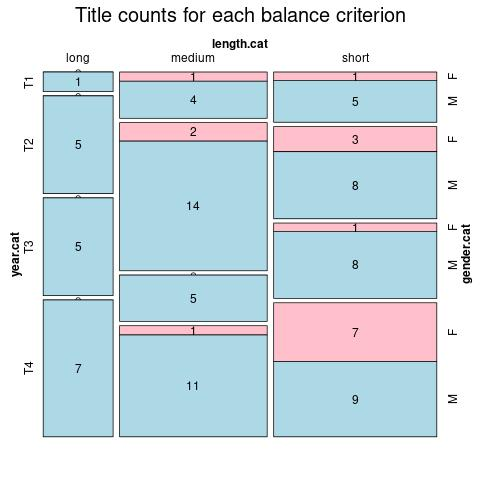
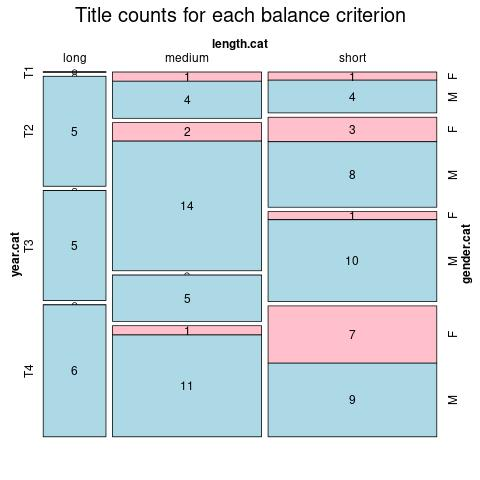
refreshing again

diff --git a/ELTeC/por/index.html b/ELTeC/por/index.html
@@ -5,7 +5,7 @@
       <title>Contents of ELTeC-por</title>
    </head>
    <body>
-      <h4>On 2020-05-01 por has 98 texts containing 6565452 words</h4>
+      <h4>On 2020-05-02 por has 97 texts containing 6332419 words</h4>
       <p class="graphic"><img src="mosaic.png"><input type="button" value="Explainer" onclick="window.open('../explainer.html','popUpWindow',         'height=600,width=500,left=100,top=100,resizable=yes,         scrollbars=yes,toolbar=no,menubar=no,location=no,directories=no, status=yes');"></p>
       <p class="explain">Click on a column heading to sort. Click on a text identifier to
          read the text (may not work in older browsers).</p>
@@ -26,10 +26,10 @@
             <td><a href="POR0001.html">POR0001</a></td>
             <td>eltec-1</td>
             <td></td>
-            <td>150580</td>
+            <td>145767</td>
             <td>(long) </td>
             <td>1868 (T2) </td>
-            <td>As Morgadinha dos Canaviais </td>
+            <td>A Morgadinha dos Cannaviaes </td>
             <td>Dinis, Júlio (1839-1871)</td>
             <td>M</td>
             <td></td>
@@ -47,22 +47,10 @@
             <td></td>
          </tr>
          <tr>
-            <td><a href="POR0003.html">POR0003</a></td>
-            <td>eltec-1</td>
-            <td></td>
-            <td>130495</td>
-            <td>(long) </td>
-            <td>1848 (T1) </td>
-            <td> O Monge de Cister</td>
-            <td>Herculano, Alexandre (1810-1877)</td>
-            <td>M</td>
-            <td></td>
-         </tr>
-         <tr>
             <td><a href="POR0004.html">POR0004</a></td>
             <td>eltec-1</td>
             <td></td>
-            <td>70856</td>
+            <td>71843</td>
             <td>(medium) </td>
             <td>1846 (T1) </td>
             <td>Viagens na minha terra</td>
@@ -74,7 +62,7 @@
             <td><a href="POR0005.html">POR0005</a></td>
             <td>eltec-1</td>
             <td></td>
-            <td>218665</td>
+            <td>216330</td>
             <td>(long) </td>
             <td>1888 (T3) </td>
             <td>Os Maias</td>
@@ -98,10 +86,10 @@
             <td><a href="POR0007.html">POR0007</a></td>
             <td>eltec-1</td>
             <td></td>
-            <td>124359</td>
+            <td>124362</td>
             <td>(long) </td>
             <td>1868 (T2) </td>
-            <td>Uma Família Inglesa</td>
+            <td>Uma família ingleza</td>
             <td>Dinis, Júlio (1839-1871)</td>
             <td>M</td>
             <td></td>
@@ -110,10 +98,10 @@
             <td><a href="POR0008.html">POR0008</a></td>
             <td>eltec-1</td>
             <td></td>
-            <td>218665</td>
+            <td>122198</td>
             <td>(long) </td>
-            <td>1901 (T4) </td>
-            <td>A Cidade e as Serras</td>
+            <td>1878 (T2) </td>
+            <td>O Primo Basílio </td>
             <td>Eça de Queirós, José Maria de (1845 — 1900)</td>
             <td>M</td>
             <td></td>
@@ -122,7 +110,7 @@
             <td><a href="POR0009.html">POR0009</a></td>
             <td>eltec-1</td>
             <td></td>
-            <td>142688</td>
+            <td>142413</td>
             <td>(long) </td>
             <td>1875 (T3) </td>
             <td>O Crime do Padre Amaro</td>
@@ -134,7 +122,7 @@
             <td><a href="POR0010.html">POR0010</a></td>
             <td>eltec-1</td>
             <td></td>
-            <td>51524</td>
+            <td>50213</td>
             <td>(medium) </td>
             <td>1862 (T2) </td>
             <td>Amor de Perdição</td>
@@ -146,10 +134,10 @@
             <td><a href="POR0011.html">POR0011</a></td>
             <td>eltec-1</td>
             <td></td>
-            <td>51492</td>
-            <td>(medium) </td>
-            <td>1868 (T2) </td>
-            <td>O retrato de Ricardina</td>
+            <td>41465</td>
+            <td>(short) </td>
+            <td>1858 (T1) </td>
+            <td>O que fazem mulheres</td>
             <td>Castelo Branco, Camilo (1825 — 1890)</td>
             <td>M</td>
             <td></td>
@@ -158,19 +146,19 @@
             <td><a href="POR0012.html">POR0012</a></td>
             <td>eltec-1</td>
             <td></td>
-            <td>117069</td>
-            <td>(long) </td>
-            <td>1876 (T2) </td>
-            <td>A Caveira da Mártir</td>
+            <td>59934</td>
+            <td>(medium) </td>
+            <td>1872 (T2) </td>
+            <td>Livro de consolação</td>
             <td>Castelo Branco, Camilo (1825 — 1890)</td>
             <td>M</td>
-            <td>high</td>
+            <td></td>
          </tr>
          <tr>
             <td><a href="POR0013.html">POR0013</a></td>
             <td>eltec-1</td>
             <td></td>
-            <td>45630</td>
+            <td>40352</td>
             <td>(short) </td>
             <td>1906 (T4) </td>
             <td>Os pobres</td>
@@ -194,7 +182,7 @@
             <td><a href="POR0015.html">POR0015</a></td>
             <td>eltec-1</td>
             <td></td>
-            <td>124359</td>
+            <td>146137</td>
             <td>(long) </td>
             <td>1867 (T2) </td>
             <td>Os Fidalgos da Casa Mourisca</td>
@@ -242,7 +230,7 @@
             <td><a href="POR0019.html">POR0019</a></td>
             <td>eltec-1</td>
             <td></td>
-            <td>26954</td>
+            <td>26391</td>
             <td>(short) </td>
             <td>1914 (T4) </td>
             <td>A Confissão de Lúcio</td>
@@ -290,10 +278,10 @@
             <td><a href="POR0023.html">POR0023</a></td>
             <td>eltec-1</td>
             <td></td>
-            <td>58439</td>
+            <td>58257</td>
             <td>(medium) </td>
             <td>1844 (T1) </td>
-            <td> Eurico, o Presbítero</td>
+            <td> Eurico, o Presbytero</td>
             <td>Herculano, Alexandre (1810-1877)</td>
             <td>M</td>
             <td></td>
@@ -470,10 +458,10 @@
             <td><a href="POR0038.html">POR0038</a></td>
             <td>eltec-1</td>
             <td></td>
-            <td>12144</td>
-            <td>(short) </td>
-            <td>1846 (T1) </td>
-            <td>O Galego</td>
+            <td>60723</td>
+            <td>(medium) </td>
+            <td>1843 (T1) </td>
+            <td> O Bobo </td>
             <td>Herculano, Alexandre (1810-1877)</td>
             <td>M</td>
             <td></td>
@@ -517,8 +505,8 @@
          <tr>
             <td><a href="POR0042.html">POR0042</a></td>
             <td>eltec-1</td>
-            <td>159</td>
-            <td>61600</td>
+            <td></td>
+            <td>61549</td>
             <td>(medium) </td>
             <td>1904 (T4) </td>
             <td>Viriato</td>
@@ -626,9 +614,9 @@
             <td><a href="POR0051.html">POR0051</a></td>
             <td>eltec-1</td>
             <td></td>
-            <td>65614</td>
+            <td>65400</td>
             <td>(medium) </td>
-            <td>1919 (T4) </td>
+            <td>1917 (T4) </td>
             <td>Húmus</td>
             <td>Brandão, Raul (1867 - 1930)</td>
             <td>M</td>
@@ -638,7 +626,7 @@
             <td><a href="POR0052.html">POR0052</a></td>
             <td>eltec-1</td>
             <td></td>
-            <td>45765</td>
+            <td>43817</td>
             <td>(short) </td>
             <td>1903 (T4) </td>
             <td>A Farsa</td>
@@ -722,11 +710,11 @@
             <td><a href="POR0059.html">POR0059</a></td>
             <td>eltec-1</td>
             <td></td>
-            <td>65871</td>
-            <td>(medium) </td>
-            <td>1845-1850 (T1) </td>
-            <td>O Arco de Santana </td>
-            <td>Almeida Garrett, João Baptista da Silva Leitão de (1799 - 1854)</td>
+            <td>49815</td>
+            <td>(short) </td>
+            <td>1875 (T3) </td>
+            <td>Um duelo nas sombras</td>
+            <td>Barata, António Francisco (1836-1910)</td>
             <td>M</td>
             <td></td>
          </tr>
@@ -782,11 +770,11 @@
             <td><a href="POR0064.html">POR0064</a></td>
             <td>eltec-1</td>
             <td></td>
-            <td>24390</td>
+            <td>47160</td>
             <td>(short) </td>
-            <td>1854 (T1) </td>
-            <td>Helena</td>
-            <td>Almeida Garrett, João Baptista da Silva Leitão de (1799 — 1854)</td>
+            <td>1873 (T3) </td>
+            <td>O Manuelinho de Évora</td>
+            <td>Barata, António Francisco (1836-1910)</td>
             <td>M</td>
             <td></td>
          </tr>

diff --git a/ELTeC/por/POR0064.html b/ELTeC/por/POR0064.html
@@ -2,12 +2,12 @@
  <html><head>
  <meta http-equiv="Content-Type" content="text/html; charset=UTF-8">     
   <link rel="stylesheet" href="../../css/cetei.css" media="all" title="no title" charset="utf-8"/>
-  <link type="application/tei+xml" rel="alternative" href="https://raw.githubusercontent.com/COST-ELTeC/ELTeC-por/master/level1/POR0064_AlmGar_Helena.xml"/>
+  <link type="application/tei+xml" rel="alternative" href="https://raw.githubusercontent.com/COST-ELTeC/ELTeC-por/master/level1/POR0064_AntFBar_Manuelinho.xml"/>
 <script src="../../js/CETEI.js" charset="utf-8"></script>
  <script type="text/javascript">
     var ceteicean = new CETEI();
     ceteicean.shadowCSS = "../../css/cetei.css";
-    ceteicean.getHTML5("https://raw.githubusercontent.com/COST-ELTeC/ELTeC-por/master/level1/POR0064_AlmGar_Helena.xml",function(data) {
+    ceteicean.getHTML5("https://raw.githubusercontent.com/COST-ELTeC/ELTeC-por/master/level1/POR0064_AntFBar_Manuelinho.xml",function(data) {
   document.getElementsByTagName("body")[0].appendChild(data);});
   </script>
    <title>ELTeC</title>

diff --git a/ELTeC/por/POR0011.html b/ELTeC/por/POR0011.html
@@ -2,12 +2,12 @@
  <html><head>
  <meta http-equiv="Content-Type" content="text/html; charset=UTF-8">     
   <link rel="stylesheet" href="../../css/cetei.css" media="all" title="no title" charset="utf-8"/>
-  <link type="application/tei+xml" rel="alternative" href="https://raw.githubusercontent.com/COST-ELTeC/ELTeC-por/master/level1/POR0011_CamCB_Ricardina.xml"/>
+  <link type="application/tei+xml" rel="alternative" href="https://raw.githubusercontent.com/COST-ELTeC/ELTeC-por/master/level1/POR0011_CamCB_Mulheres.xml"/>
 <script src="../../js/CETEI.js" charset="utf-8"></script>
  <script type="text/javascript">
     var ceteicean = new CETEI();
     ceteicean.shadowCSS = "../../css/cetei.css";
-    ceteicean.getHTML5("https://raw.githubusercontent.com/COST-ELTeC/ELTeC-por/master/level1/POR0011_CamCB_Ricardina.xml",function(data) {
+    ceteicean.getHTML5("https://raw.githubusercontent.com/COST-ELTeC/ELTeC-por/master/level1/POR0011_CamCB_Mulheres.xml",function(data) {
   document.getElementsByTagName("body")[0].appendChild(data);});
   </script>
    <title>ELTeC</title>

diff --git a/ELTeC/por/POR0012.html b/ELTeC/por/POR0012.html
@@ -2,12 +2,12 @@
  <html><head>
  <meta http-equiv="Content-Type" content="text/html; charset=UTF-8">     
   <link rel="stylesheet" href="../../css/cetei.css" media="all" title="no title" charset="utf-8"/>
-  <link type="application/tei+xml" rel="alternative" href="https://raw.githubusercontent.com/COST-ELTeC/ELTeC-por/master/level1/POR0012_CamCB_Caveira.xml"/>
+  <link type="application/tei+xml" rel="alternative" href="https://raw.githubusercontent.com/COST-ELTeC/ELTeC-por/master/level1/POR0012_CamCB_Consolacao.xml"/>
 <script src="../../js/CETEI.js" charset="utf-8"></script>
  <script type="text/javascript">
     var ceteicean = new CETEI();
     ceteicean.shadowCSS = "../../css/cetei.css";
-    ceteicean.getHTML5("https://raw.githubusercontent.com/COST-ELTeC/ELTeC-por/master/level1/POR0012_CamCB_Caveira.xml",function(data) {
+    ceteicean.getHTML5("https://raw.githubusercontent.com/COST-ELTeC/ELTeC-por/master/level1/POR0012_CamCB_Consolacao.xml",function(data) {
   document.getElementsByTagName("body")[0].appendChild(data);});
   </script>
    <title>ELTeC</title>

diff --git a/ELTeC/por/POR0008.html b/ELTeC/por/POR0008.html
@@ -2,12 +2,12 @@
  <html><head>
  <meta http-equiv="Content-Type" content="text/html; charset=UTF-8">     
   <link rel="stylesheet" href="../../css/cetei.css" media="all" title="no title" charset="utf-8"/>
-  <link type="application/tei+xml" rel="alternative" href="https://raw.githubusercontent.com/COST-ELTeC/ELTeC-por/master/level1/POR0008_EcaQue_Cidade.xml"/>
+  <link type="application/tei+xml" rel="alternative" href="https://raw.githubusercontent.com/COST-ELTeC/ELTeC-por/master/level1/POR0008_EcaQue_Basilio.xml"/>
 <script src="../../js/CETEI.js" charset="utf-8"></script>
  <script type="text/javascript">
     var ceteicean = new CETEI();
     ceteicean.shadowCSS = "../../css/cetei.css";
-    ceteicean.getHTML5("https://raw.githubusercontent.com/COST-ELTeC/ELTeC-por/master/level1/POR0008_EcaQue_Cidade.xml",function(data) {
+    ceteicean.getHTML5("https://raw.githubusercontent.com/COST-ELTeC/ELTeC-por/master/level1/POR0008_EcaQue_Basilio.xml",function(data) {
   document.getElementsByTagName("body")[0].appendChild(data);});
   </script>
    <title>ELTeC</title>

diff --git a/ELTeC/por/POR0059.html b/ELTeC/por/POR0059.html
@@ -2,12 +2,12 @@
  <html><head>
  <meta http-equiv="Content-Type" content="text/html; charset=UTF-8">     
   <link rel="stylesheet" href="../../css/cetei.css" media="all" title="no title" charset="utf-8"/>
-  <link type="application/tei+xml" rel="alternative" href="https://raw.githubusercontent.com/COST-ELTeC/ELTeC-por/master/level1/POR0059_AlmGar_Santana.xml"/>
+  <link type="application/tei+xml" rel="alternative" href="https://raw.githubusercontent.com/COST-ELTeC/ELTeC-por/master/level1/POR0059_AntFBar_Duelo.xml"/>
 <script src="../../js/CETEI.js" charset="utf-8"></script>
  <script type="text/javascript">
     var ceteicean = new CETEI();
     ceteicean.shadowCSS = "../../css/cetei.css";
-    ceteicean.getHTML5("https://raw.githubusercontent.com/COST-ELTeC/ELTeC-por/master/level1/POR0059_AlmGar_Santana.xml",function(data) {
+    ceteicean.getHTML5("https://raw.githubusercontent.com/COST-ELTeC/ELTeC-por/master/level1/POR0059_AntFBar_Duelo.xml",function(data) {
   document.getElementsByTagName("body")[0].appendChild(data);});
   </script>
    <title>ELTeC</title>

diff --git a/ELTeC/por/POR0038.html b/ELTeC/por/POR0038.html
@@ -2,12 +2,12 @@
  <html><head>
  <meta http-equiv="Content-Type" content="text/html; charset=UTF-8">     
   <link rel="stylesheet" href="../../css/cetei.css" media="all" title="no title" charset="utf-8"/>
-  <link type="application/tei+xml" rel="alternative" href="https://raw.githubusercontent.com/COST-ELTeC/ELTeC-por/master/level1/POR0038_AleHer_Galego.xml"/>
+  <link type="application/tei+xml" rel="alternative" href="https://raw.githubusercontent.com/COST-ELTeC/ELTeC-por/master/level1/POR0038_AleHer_Bobo.xml"/>
 <script src="../../js/CETEI.js" charset="utf-8"></script>
  <script type="text/javascript">
     var ceteicean = new CETEI();
     ceteicean.shadowCSS = "../../css/cetei.css";
-    ceteicean.getHTML5("https://raw.githubusercontent.com/COST-ELTeC/ELTeC-por/master/level1/POR0038_AleHer_Galego.xml",function(data) {
+    ceteicean.getHTML5("https://raw.githubusercontent.com/COST-ELTeC/ELTeC-por/master/level1/POR0038_AleHer_Bobo.xml",function(data) {
   document.getElementsByTagName("body")[0].appendChild(data);});
   </script>
    <title>ELTeC</title>
